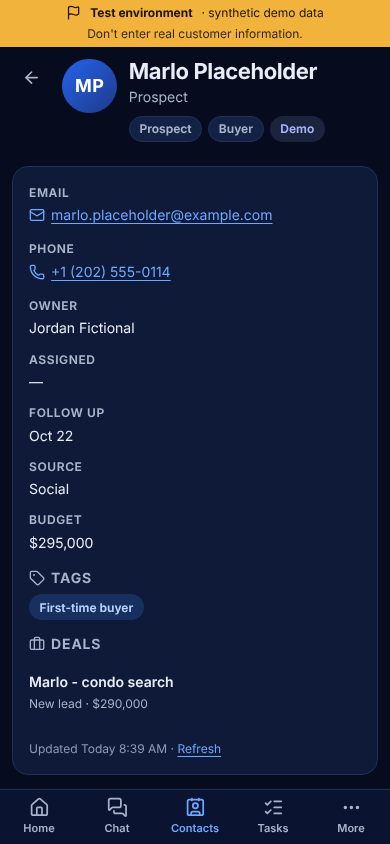
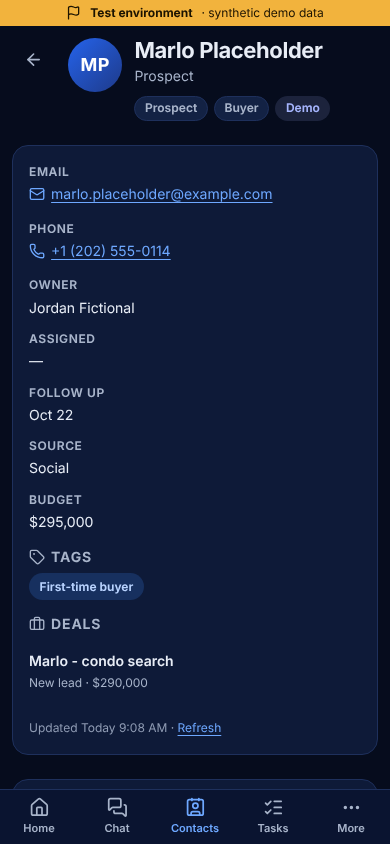
Nexus docs: merge of the Lumen polish (conflicts, resolutions, verification); refreshed foundation screenshots [skip ci]
Claude-Session: https://claude.ai/code/session_01DBk34rqSboXD3sb22NcAqJ

Changed region(s): [[0.0, 0.0308, 1.0, 0.4313], [0.0308, 0.4621, 0.9846, 0.955]]

diff --git a/docs/nexus/IMPLEMENTATION-NOTES.md b/docs/nexus/IMPLEMENTATION-NOTES.md
@@ -70,7 +70,8 @@ Findings outside the brief, recorded here so nobody re-discovers them:
 * **`tests/deploy/test_tokens.py::test_themes_differ_and_use_brand_palette` fails at the
   starting commit `eefa6ab` already** (`design/tokens.css` dark `--bg` is `#081024`, the
   palette's `lm-midnight-950` is `#050b1a`). `design/` and that test are shared Lumen files
-  this branch must not touch, so it is left failing and reported.
+  this branch must not touch, so it is left failing and reported. Fixed on the Lumen side in `01c7773`
+  and passing since the [merge of the Lumen polish](#merge-of-the-lumen-polish).
 * **Chat UI suite (`npm run test:ui`)**: one run had "sign out wipes local data" time out
   waiting for the signed-out notice; the immediate re-run passed 23/23. The workspace
   sign-out hook is a no-op without a `workspace` block in the chat config (as in that suite),
@@ -78,3 +79,88 @@ Findings outside the brief, recorded here so nobody re-discovers them:
 * **ruff** has no configuration in this repository and CI does not run it; the Nexus Python
   code is clean under `E,F,W,I` (command in DEVELOPMENT.md). Ruff's wider default set reports
   `RUF012` (mutable Django `Meta`/class attributes) here as it does in the existing apps.
+
+## Merge of the Lumen polish
+
+**What.** `origin/claude/dreamy-sagan-mheysz` up to `01c7773` was merged into this branch with
+`git merge --no-ff` (merge commit `75c3570`, parents `e45c540` and `01c7773`): 528 files of
+GUI polish for the web chat, desktop, portal/website/console, Android and iOS, the WCAG AA
+token fixes, WireGuard on by default and configured by the installer, docs and tests. It is a
+real merge, never a rebase or squash, so the next batch of Lumen fixes merges the same way
+from merge base `01c7773`.
+
+### Conflicts and how they were resolved
+
+Every resolution keeps both sides: the polished layout, markup, copy and accessibility, plus
+the Nexus banner, `[Test]` title prefix, brand hooks, role picker and business settings.
+
+| File | Lumen polish | Nexus | Result |
+|---|---|---|---|
+| `static/lumen/css/lumen.css` | rewrote the component layer; moved the old tail rules (`.diag-output`, `.history`, `.text-right`) up into their sections | appended the banner, role picker and fieldset/legend rules | polished file + the Nexus block at the end. The role `<select>` keeps right padding for the polished chevron and reaches 44 px on touch devices like the other controls |
+| `templates/base.html` | `viewport-fit`, robots block, Open Graph, per-scheme `theme-color`, icons in maintenance/announcement banners | `[Test]` title prefix, environment banner, Nexus navy `theme-color` | polished head with the prefix and banner; `theme-color` follows the Nexus backgrounds (`#f4f6fa` light, `#060c1d` dark) and `mask-icon` the Nexus navy (`#0a1430`) |
+| `templates/portal/base_portal.html` | off-canvas sidebar (`sidebar-inner`, close button, `aria-label`s) | "Open workspace" link | polished sidebar with "Open workspace" before "Open chat" |
+| `templates/portal/dashboard.html` | "Welcome back", copyable address chip, two-column grid, Matrix card | "Open workspace" button next to "Open chat", Business badge on workspace rows | polished page with both buttons (workspace primary) and the badge in the polished workspace row |
+| `templates/portal/workspace_detail.html` | member actions in a "Manage" row menu (Make admin/member, Make owner, Remove, Leave); invitation copy and placeholder | role picker with all six roles instead of the admin/member toggle; invite role for owners and admins with help text | role picker inline, row menu keeps Make owner, Remove and Leave (the toggle is replaced by the picker); polished invitation copy with the Nexus role field, its help text now linked with `aria-describedby` |
+| `templates/site/base_site.html` | "Your account" instead of "Dashboard" | "Open workspace" instead of "Open chat" | "Your account" and "Open workspace" |
+
+### Auto-merged files checked for semantic clashes
+
+* **`room/RoomHeader.tsx`**: the polished header folds its secondary actions into a "More
+  options" menu when the header is narrow (container query). The Nexus room-panel buttons
+  (the CRM panel) were always shown; they are now `wide-only` and appear as items of that menu
+  in a narrow header, like Search, Call history and Details.
+* **`ChatApp.tsx`**: Lumen sizes `.app` to the visual viewport (`--app-height`) so the composer
+  stays above the on-screen keyboard. With the environment banner, `workspace.css` made
+  `.app` `height: auto` inside a 100 %-high `#root`, which bypassed that. `#root` now takes
+  `var(--app-height, 100dvh)` when the banner is shown, and `.app` fills the rest.
+* **`RoomView.tsx`** (loading skeleton, `PanelId` types), **`render.py`** (WireGuard defaults and
+  `WG_ENDPOINT` next to `NEXUS_ENVIRONMENT` and the chat `workspace` block), **`settings.py`**
+  (`WIREGUARD_ENABLED` defaults to on next to the Nexus settings), **`accounts/views.py`**
+  (`returning`, the Business flag and assignable roles) and `workspace_settings.html`: the
+  changes are independent; nothing to adapt.
+* **Brand strings.** The polished chat (About tab, sign-in) and the website/portal templates
+  already use `config.brand.shortName` / `brand.short_name`, so this branch says "Nexus runs
+  on Matrix" (the configured short name; `BRAND_SHORT_NAME=Nexus Office AI` would make it
+  "Nexus Office AI runs on Matrix") with the same facts (Matrix, end-to-end encryption, WireGuard only for server
+  administration). One polished sentence hardcoded the name: the console's Calls page ("…
+  does not offer TURN over TLS") now uses `brand.short_name`. Left as they are: the
+  `Lumen {{ lumen.version }}` labels (they name the software release, as before the merge),
+  the desktop app's static placeholders (replaced at run time from its discovered brand), and
+  the Android and iOS apps, which are called Lumen throughout and are outside the brand hooks.
+* **Design tokens.** `python3 design/tools/gen_tokens.py --check` passes and
+  `tests/deploy/test_tokens.py` passes with Lumen's `01c7773` (lifted dark backgrounds as
+  palette entries). `branding/theme.css` overrides every value it needs, so the measured
+  Nexus contrast is unchanged (81 pairs pass).
+
+### Fixes made while verifying
+
+* **Environment banner and sticky layouts** (portal `lumen.css`, chat `workspace.css`). The
+  banner is sticky (portal) or in flow (chat) with a high `z-index`, and things that stick to
+  or cover the top of the window slid under it: the website header and the portal's phone bar
+  when scrolling, the bottom of the portal sidebar (Sign out was cut off at 900 px high; this
+  predates the merge), and in the chat SPA the full-window side panels on phones and tablets
+  and the call screen (the CRM panel's close button was unreachable on a phone). The banner
+  is now one fixed-height line at every width (30 px portal, 26 px chat) and these elements
+  start below it (`--env-banner-h`). To fit one line on phones, the note "Don't enter real
+  customer information." is read by screen readers only below 640 px; the visible text
+  ("Test environment · synthetic demo data") is unchanged.
+* **Members row menu** (a Lumen-side gap): an admin looking at another admin got an empty
+  "Manage" menu. The menu now appears only when it has an item.
+* **Smoke test** (`tests/nexus/shell.smoke.mjs`, 16 checks): the polished chat sign-in says
+  "Welcome back", so the smoke waits for the Sign in button; a new phone check opens the CRM
+  panel from "More options" and closes it with its own close button.
+
+### Verification after the merge (observed)
+
+Portal pytest 367 passed (346 before the merge + Lumen's 21 new `test_ui_pages.py` tests); chat
+`npm test` 129 passed, `lint`, `typecheck` and `build` clean; `unittest discover -s
+tests/deploy` 56 OK; CI shellcheck, TLS-bypass and secret greps clean; `brand_contrast.py`
+81 pairs, 0 failing; `npm run test:e2ee` 5/5 and `npm run test:ui` 23/23 against
+`lumen-chatdev-nexus`; `shell.smoke.mjs` 16/16 against the slot-0 dev servers. The
+screenshots in `screenshots/foundation/` were refreshed (all that changed visibly) and
+`room-crm-panel--phone-light.png` was added.
+
+**WireGuard on by default** now applies to installs of this branch too: the installer brings
+up the operator tunnel and creates a first device profile (`WG_ENDPOINT` is new; see the Lumen
+docs). It is for server administration only; chat stays protected by Matrix end-to-end
+encryption, and the local Nexus test environment does not run it.

diff --git a/docs/nexus/DEVELOPMENT.md b/docs/nexus/DEVELOPMENT.md
@@ -143,7 +143,7 @@ npm run build       # tsc + vite build
 Needs the environment set up and both dev servers running (sections 2 and 3):
 
 ```sh
-. dev/nexus/env.sh && node tests/nexus/shell.smoke.mjs            # resets + reseeds demo data, then 15 checks, screenshots
+. dev/nexus/env.sh && node tests/nexus/shell.smoke.mjs            # resets + reseeds demo data, then 16 checks, screenshots
 . dev/nexus/env.sh && node tests/nexus/shell.smoke.mjs --no-shots # same without screenshots
 . dev/nexus/env.sh && node tests/nexus/shell.smoke.mjs --keep-data
 ```
